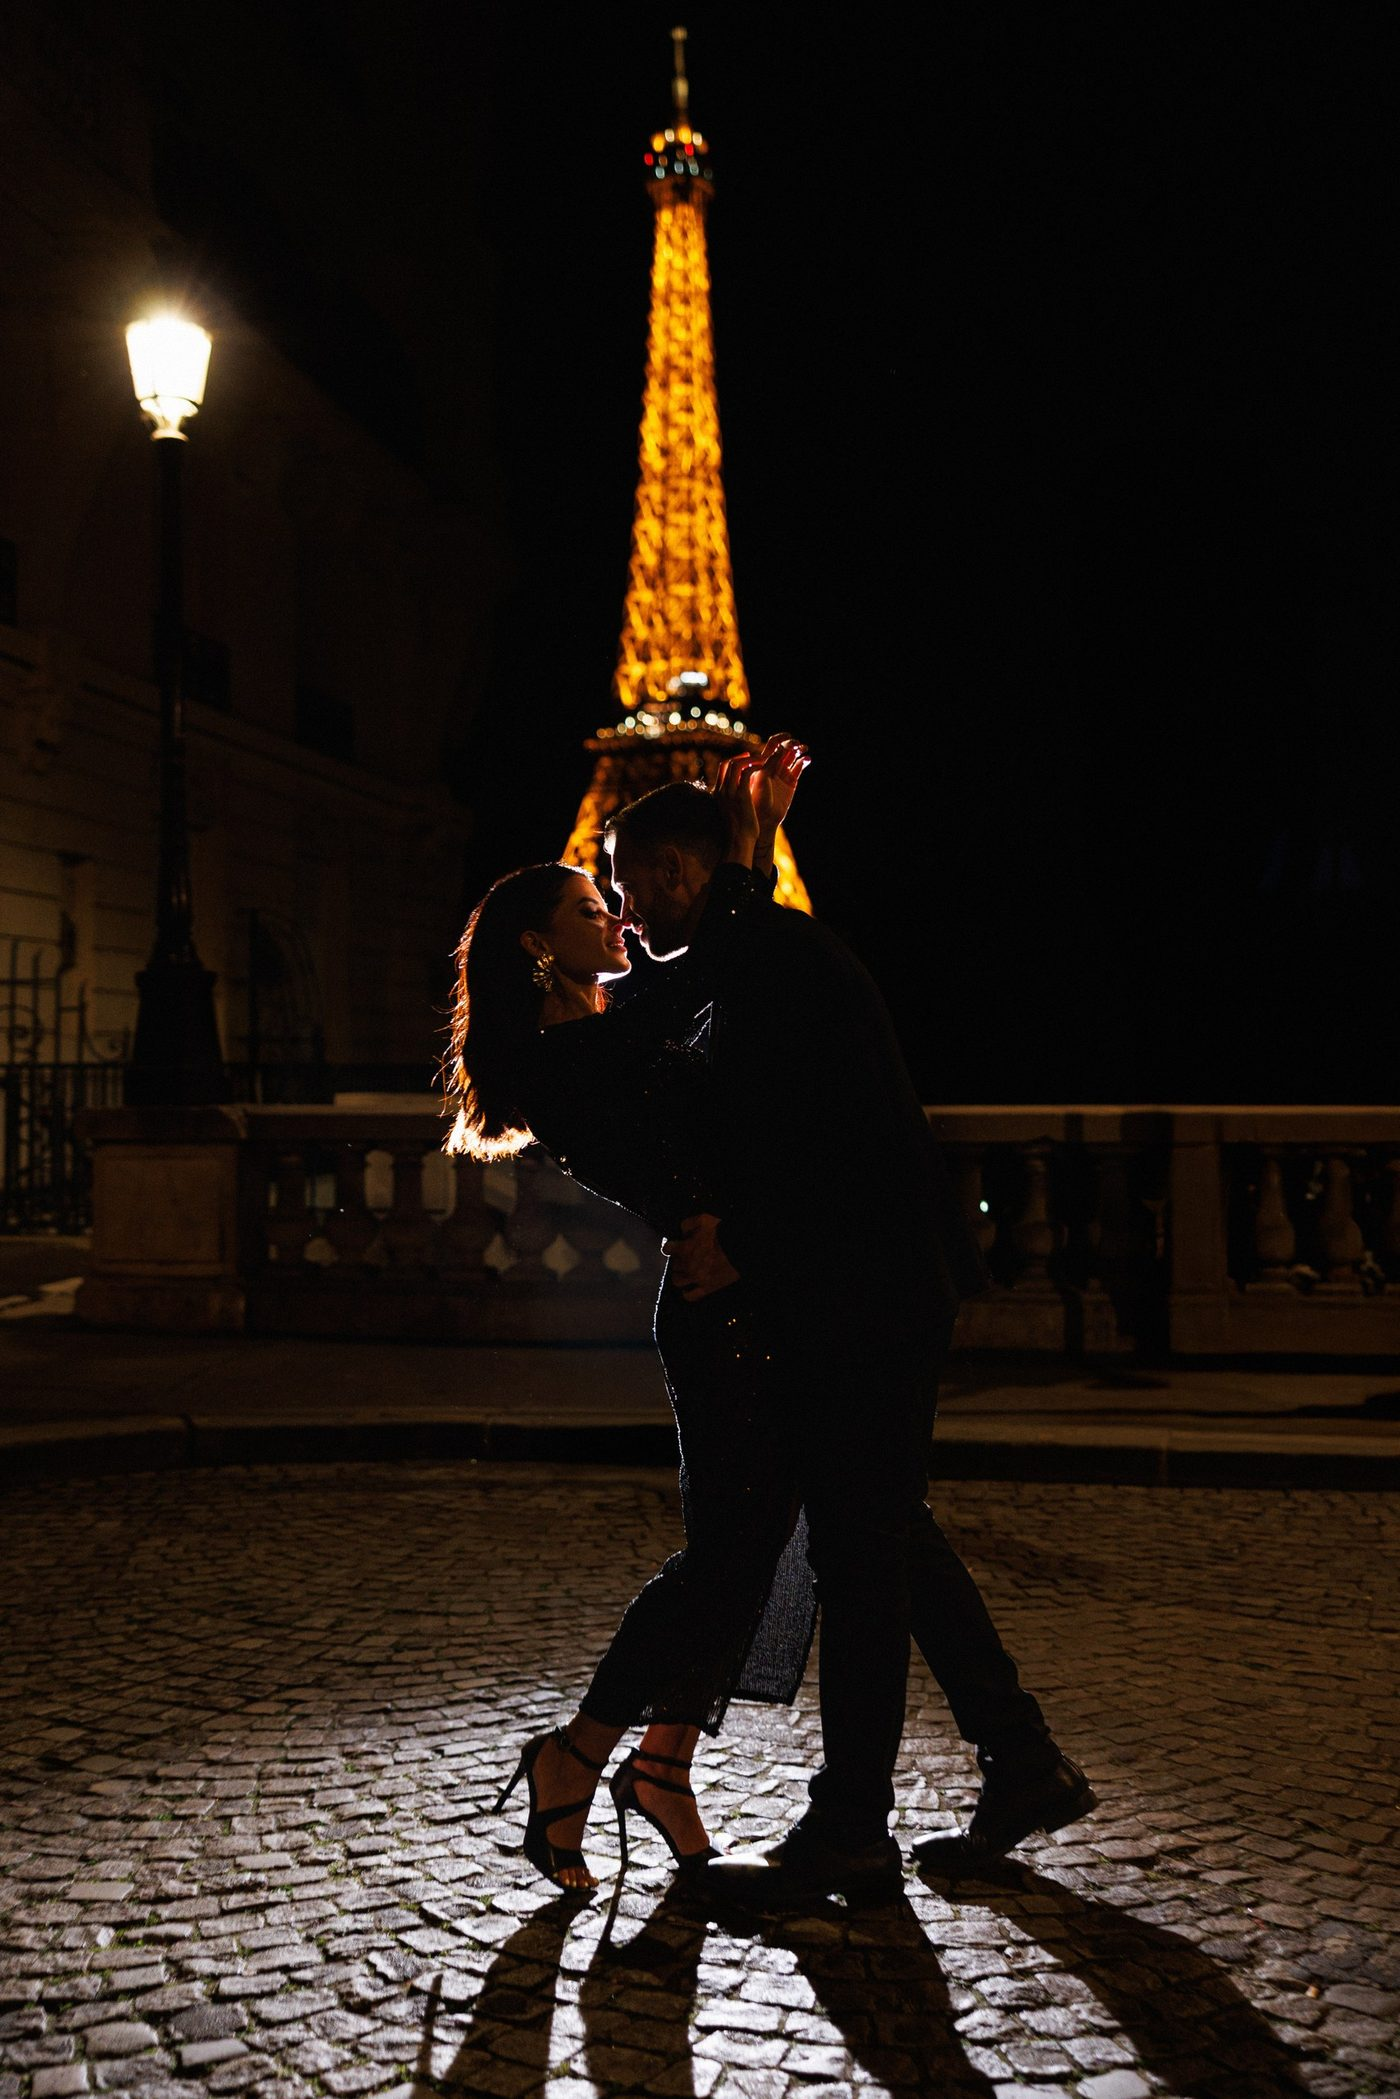
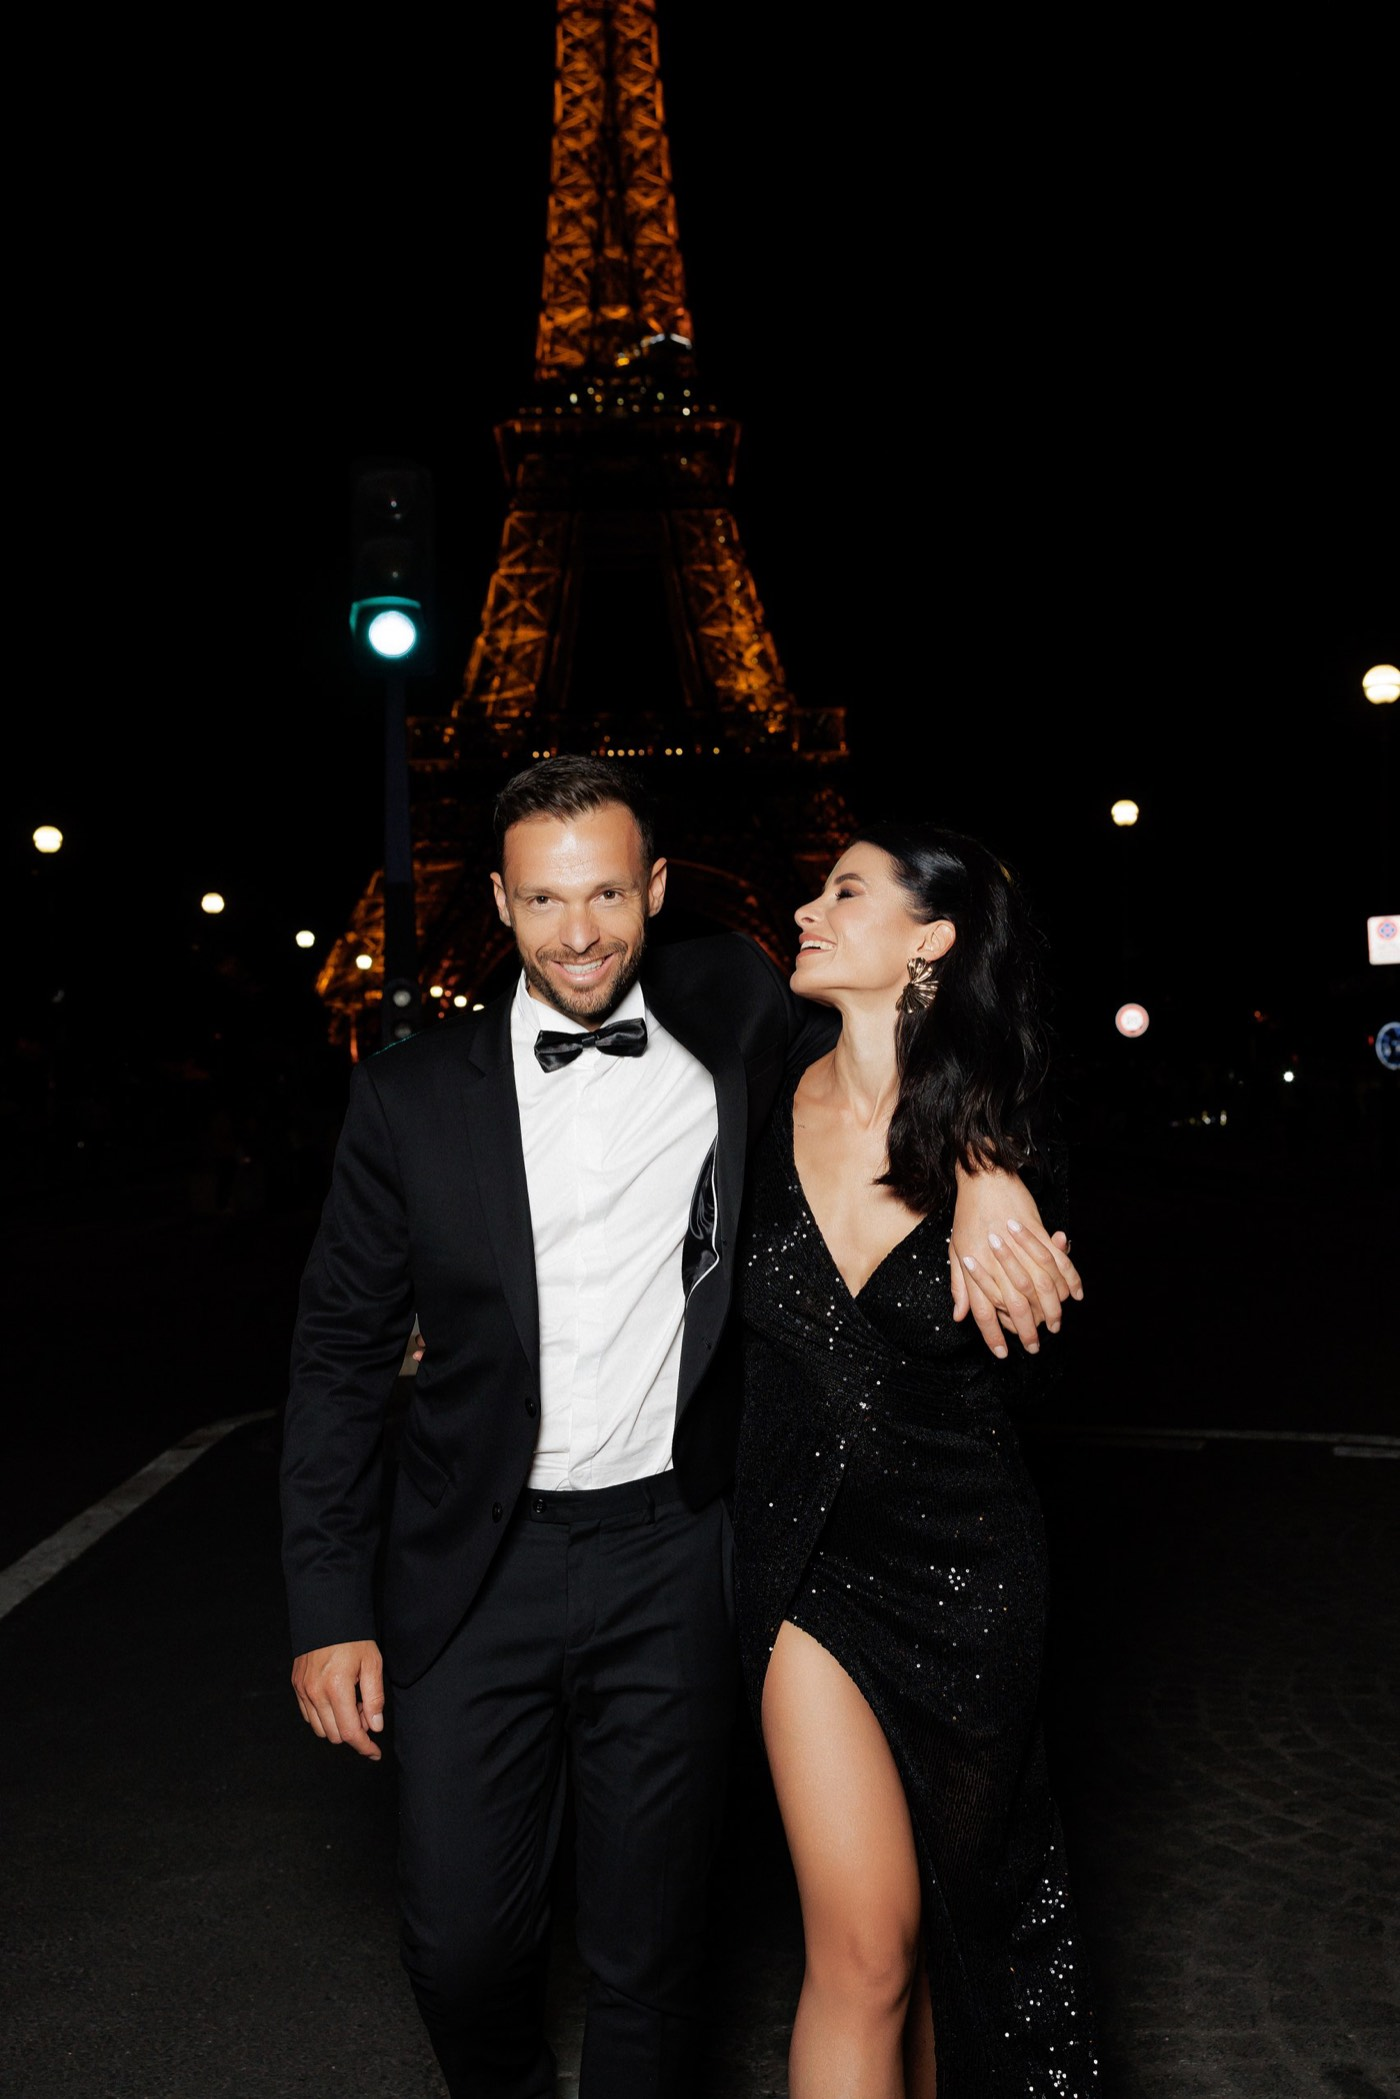
Experience section: white background; swap afternoon and night carousel photos

diff --git a/index.html b/index.html
@@ -136,7 +136,7 @@
           </div>
         </li>
         <li class="carousel__card">
-          <img src="assets/img/exp-afternoon.jpg" alt="Wedding couple photo session in the streets of Paris" loading="lazy">
+          <img src="assets/img/exp-afternoon.jpg" alt="Couple walking arm in arm past a Paris café with a vintage convertible" loading="lazy">
           <div class="carousel__caption">
             <span class="carousel__time">Afternoon</span>
             <h3>Paris Photo Session</h3>
@@ -157,7 +157,7 @@
           </div>
         </li>
         <li class="carousel__card">
-          <img src="assets/img/exp-night.jpg" alt="Paris by night after the wedding party" loading="lazy">
+          <img src="assets/img/exp-night.jpg" alt="Couple laughing together at night in front of the illuminated Eiffel Tower" loading="lazy">
           <div class="carousel__caption">
             <span class="carousel__time">Paris by Night</span>
             <h3>Party After Dark</h3>

diff --git a/css/style.css b/css/style.css
@@ -355,7 +355,8 @@ p { margin: 0; }
    EXPERIENCE
 ================================================================= */
 .experience {
-  background: var(--ink);
+  background: var(--paper);
+  border-top: 1px solid var(--hairline);
   padding-bottom: var(--section-space);
 }
 .experience__video {
@@ -370,7 +371,7 @@ p { margin: 0; }
 }
 
 .experience__title {
-  color: var(--paper);
+  color: var(--ink);
   text-align: center;
   font-size: var(--fs-h2);
   font-style: italic;
@@ -393,7 +394,7 @@ p { margin: 0; }
 .carousel__track:active { cursor: grabbing; }
 .carousel__track::-webkit-scrollbar { height: 4px; }
 .carousel__track::-webkit-scrollbar-thumb { background: var(--champagne); }
-.carousel__track::-webkit-scrollbar-track { background: rgba(255,255,255,.1); }
+.carousel__track::-webkit-scrollbar-track { background: rgba(20,18,15,.08); }
 
 .carousel__card {
   position: relative;
